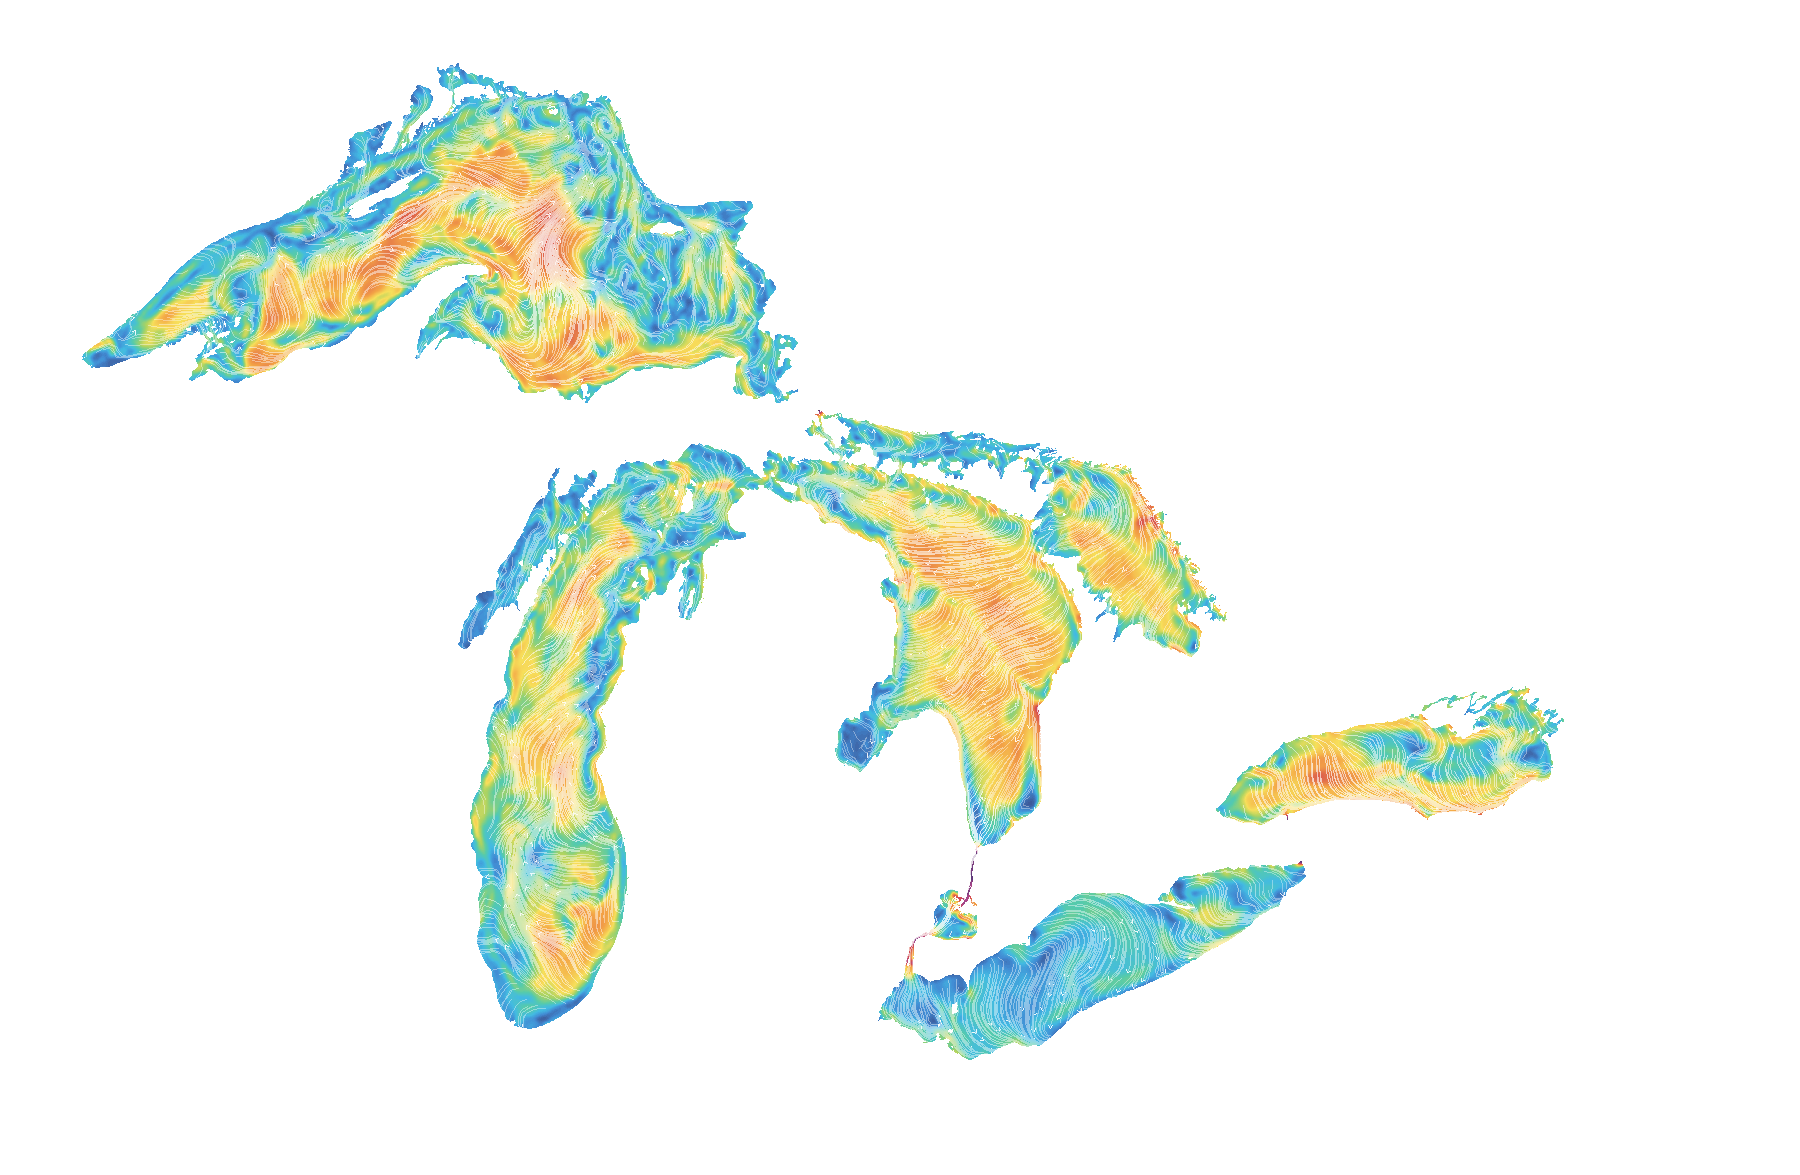
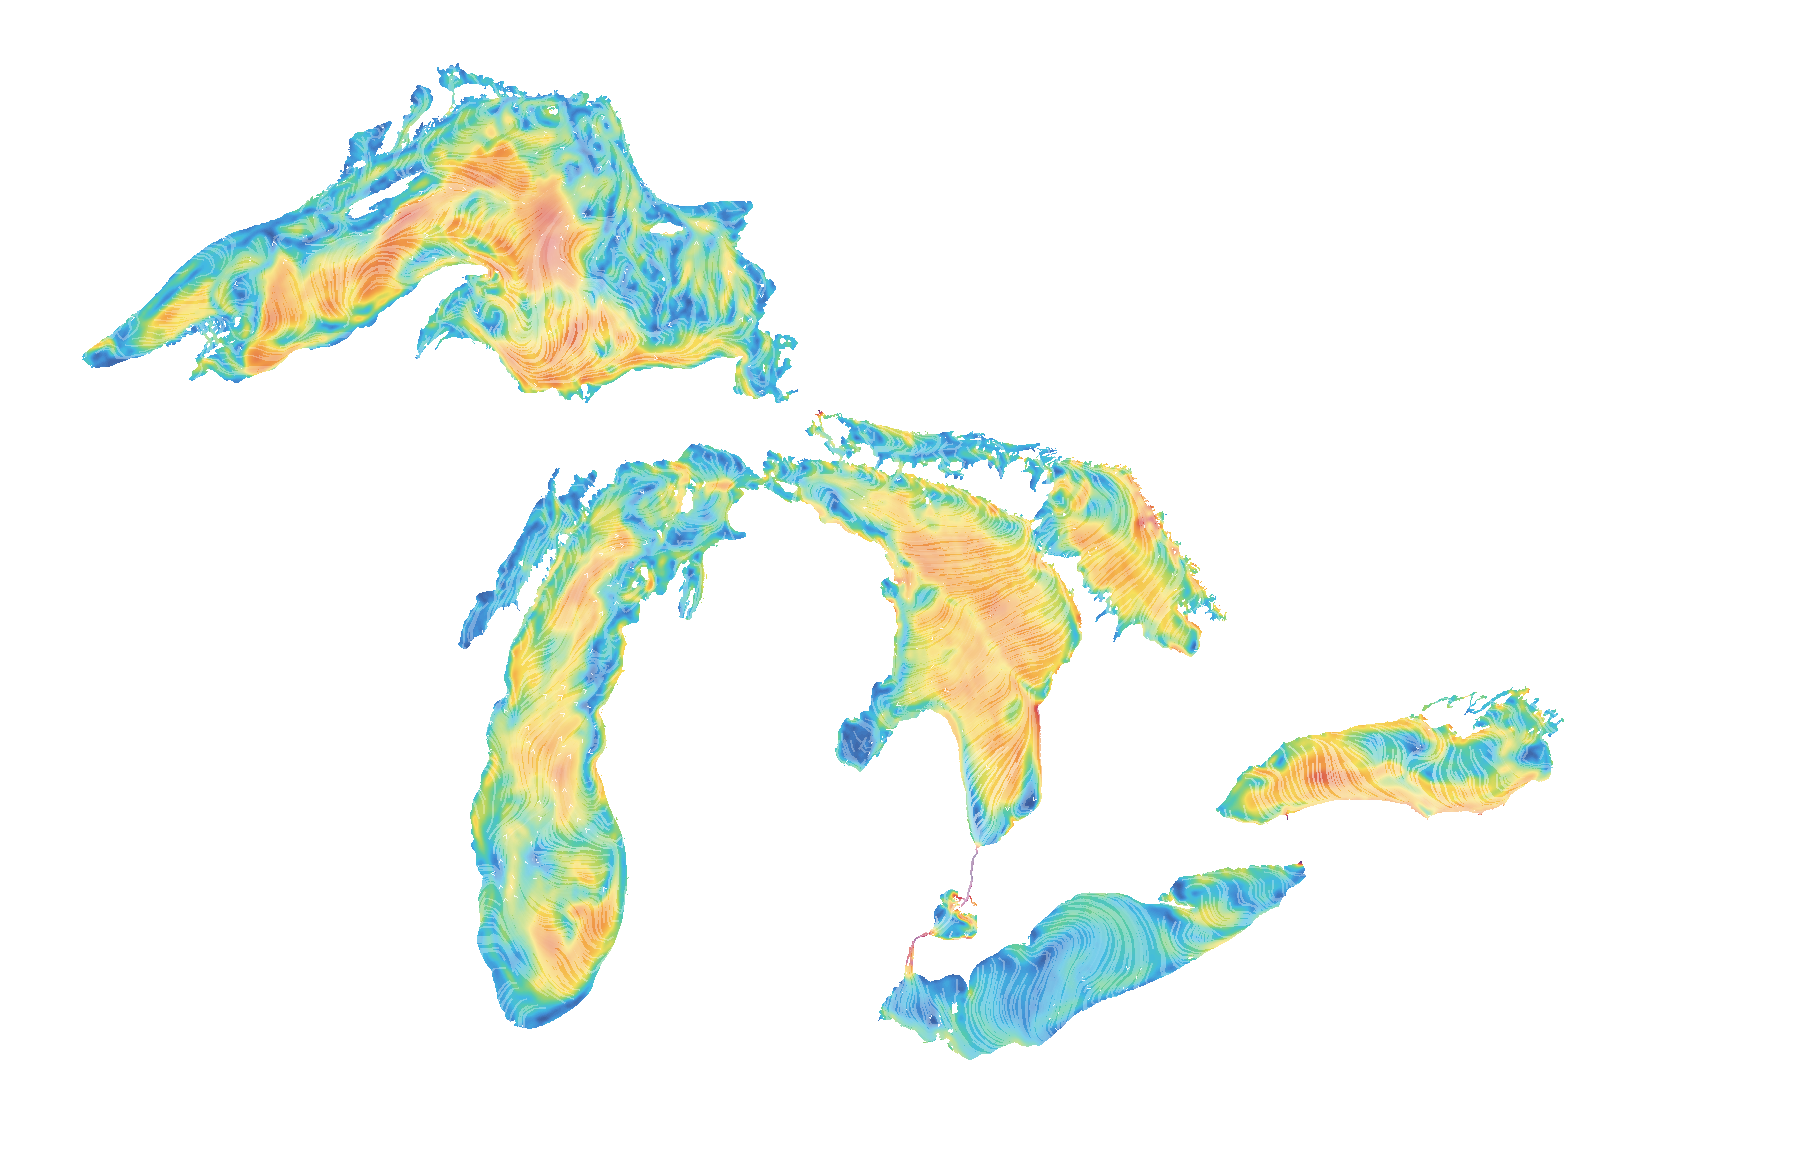
Surface currents: 2px lines, 120px paths, chevrons every 2nd streak

diff --git a/scripts/build_surface_currents.py b/scripts/build_surface_currents.py
@@ -16,7 +16,7 @@ Gradient = CURRENT SPEED (fixed absolute 0-100 cm/s, source m/s x100).
 Flow marks = CURRENT DIRECTION, rasterized INTO the PNG (zero KML
 Placemarks): NO preset lattice — thousands of 1 px streamlets trace RK2
 streamlines integrated through the filed (U,V) field (brightness =
-speed), with a tiny downstream chevron on every third streamlet. Every
+speed), with a tiny downstream chevron on every second streamlet. Every
 mark position, path, and orientation is field-derived.
 
 Narrow rivers vs the shared open-lake shoreline mask: the mask reads
@@ -429,12 +429,13 @@ def trace_streamline(sy, sx, uu, vv, ds=3.0, max_steps=24, min_speed=0.01):
 
 
 def paint_flow_arrows(rgba, uu, vv, seed_step=7, river_seed_step=4,
-                      river_mask=None, ds=3.0, max_steps=24,
+                      river_mask=None, ds=3.0, max_steps=40,
                       speed_ref_cms=50.0, min_speed_cms=1.0,
                       sep_px=1.5, river_sep_px=1.0,
-                      head_every=3, head_sep_px=5.0,
+                      head_every=2, head_sep_px=5.0,
                       river_head_sep_px=3.5,
-                      line_base_alpha=90, line_bright_alpha=110,
+                      line_width=2,
+                      line_base_alpha=70, line_bright_alpha=70,
                       head_alpha=230):
     """Dense flow-streak field with micro direction heads, rasterized.
 
@@ -531,7 +532,7 @@ def paint_flow_arrows(rgba, uu, vv, seed_step=7, river_seed_step=4,
             if not math.isfinite(sp):
                 continue
             d.line(pts, fill=(255, 255, 255, brightness(max(sp, min_speed))),
-                   width=1)
+                             width=line_width)
             n_lines += 1
             accepted += 1
             if accepted % head_every == 0 and len(path) >= 10:
@@ -871,9 +872,9 @@ def _build(glofs_pick, fvcom_pick, source_id, now):
     meta["arrow_method"] = (
         "No preset lattice. Deterministic jittered seeds (seeded RNG) "
         "advected downstream along RK2-midpoint streamlines (3 px steps, "
-        "up to 24 steps ≈ 72 px paths) integrated through the filed U/V "
+        "up to 40 steps ≈ 120 px paths) integrated through the filed U/V "
         "field with bilinear sampling; each accepted path is drawn as a "
-        "1 px streamlet, every third path carries a tiny downstream "
+        "1 px streamlet, every second path carries a tiny downstream "
         "chevron. Traces stop at land/no-data, stagnant water (<1 cm/s), "
         "or hairpins. Streamlet brightness encodes speed (dim drift, "
         "bright jets); rivers get denser seeds. Glyphs trace the same "

diff --git a/DATA_SOURCES.md b/DATA_SOURCES.md
@@ -679,10 +679,10 @@ the other products and the Pages publish proceed normally.
   teal → yellow-green → yellow → orange → red → red-violet →
   dark-purple jets; above 100 clamps). NO preset arrow lattice:
   deterministic jittered seeds advected downstream along RK2-midpoint
-  streamlines (3 px steps, ≤24 steps ≈ 72 px) integrated through the
-  filed U/V field with bilinear sampling, drawn as thousands of 1 px
-  flow streaks; streak BRIGHTNESS encodes speed (dim drift, bright
-  jets) while the gradient carries the absolute scale; every third
+  streamlines (3 px steps, ≤40 steps ≈ 120 px) integrated through the
+  filed U/V field with bilinear sampling, drawn as thousands of 2 px
+  flow streaks (soft white: full strength would bleach the gradient); streak BRIGHTNESS encodes speed (dim drift, bright
+  jets) while the gradient carries the absolute scale; every second
   streak carries a tiny downstream chevron. Separation-aware seeding
   (Jobard-Lefer style) keeps converging flow from piling into blobs;
   traces stop at land/no-data, stagnant water (<1 cm/s), or hairpins.
